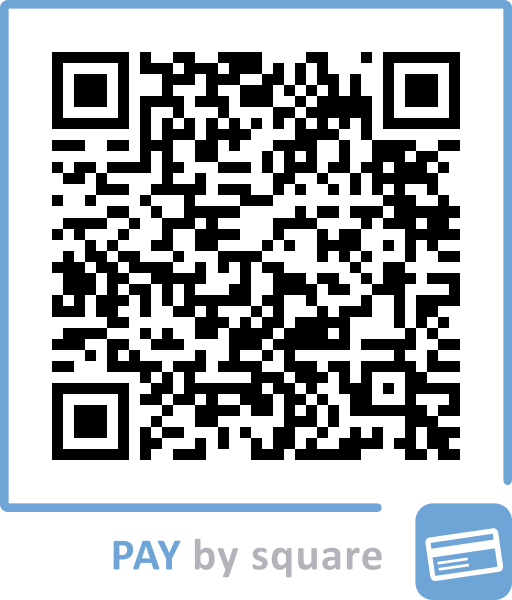
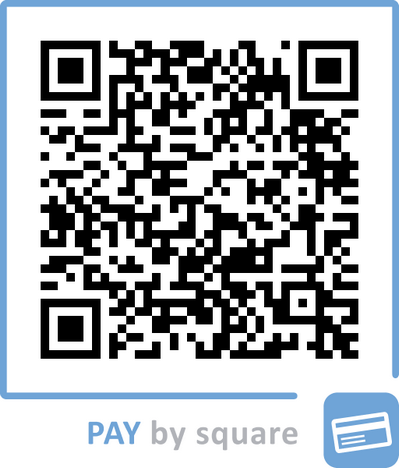
Cosmetics

Changed region(s): [[0.8421, 0.1197, 0.8722, 0.1496]]

diff --git a/README.md b/README.md
@@ -43,12 +43,9 @@ Tieto možnosti ochrany zabezpečujú, že dokument zostane **chránený** pred 
 
 # Podpora projektu 💶
 Projekt je možné finančne podporiť:
-* zosnímaním [QR kódu](javascript:void(0);)<!-- This is a Markdown link -->
-<script>
-  document.querySelector('a').onclick = function() {
-    window.open('screenshots%2Fpay-by-square.png', 'Image', 'width=600,height=400');
-  };
-</script>
+* zosnímaním QR kódu <br>
+ ![Pay By Square](screenshots%2Fpay-by-square.png)
+<br><br>
 * platbou [prevodom](https://payme.sk/?V=1&IBAN=SK1611000000002615114396&AM=5.00&CC=EUR&DT=&PI=&MSG=PDFPass&CN=) (po kliknutí na link by malo nastať automatické presmerovanie do bankovej Android/iOS aplikácie (ČSOB, Tatra banka, SLSP, VÚB) - údaje budú predvyplnené, cenu je možné upraviť (prednastavená je 5 €). V prípade, že nedojde k presmerovaniu do aplikácie, alebo nepoužívate aplikáciu zobrazi sa stranka s platobnými údajmi)
 <br><br>
 * platbou cez systém [PayPal](https://www.paypal.com/donate/?hosted_button_id=5G336LA7YBMXQ&locale.x=sk_SK) (cenu je potrebné zadať, ostané údaje možu byť aj fiktívne)
